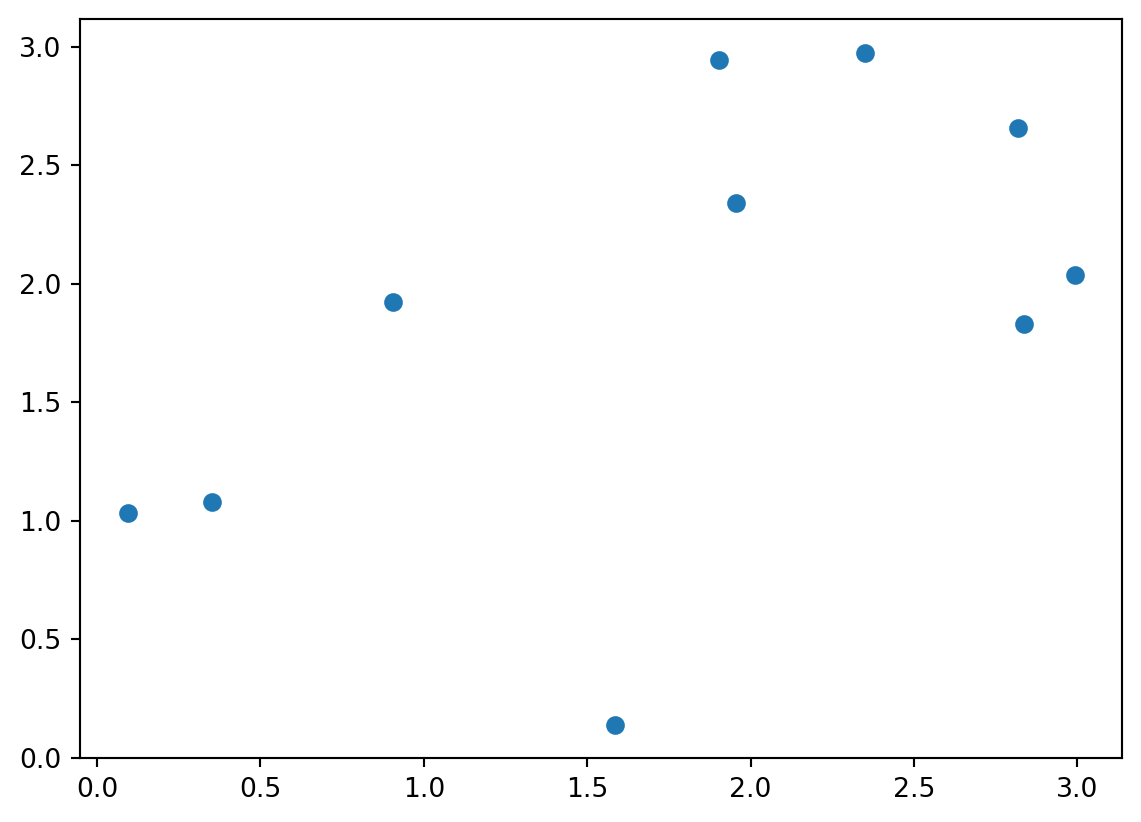
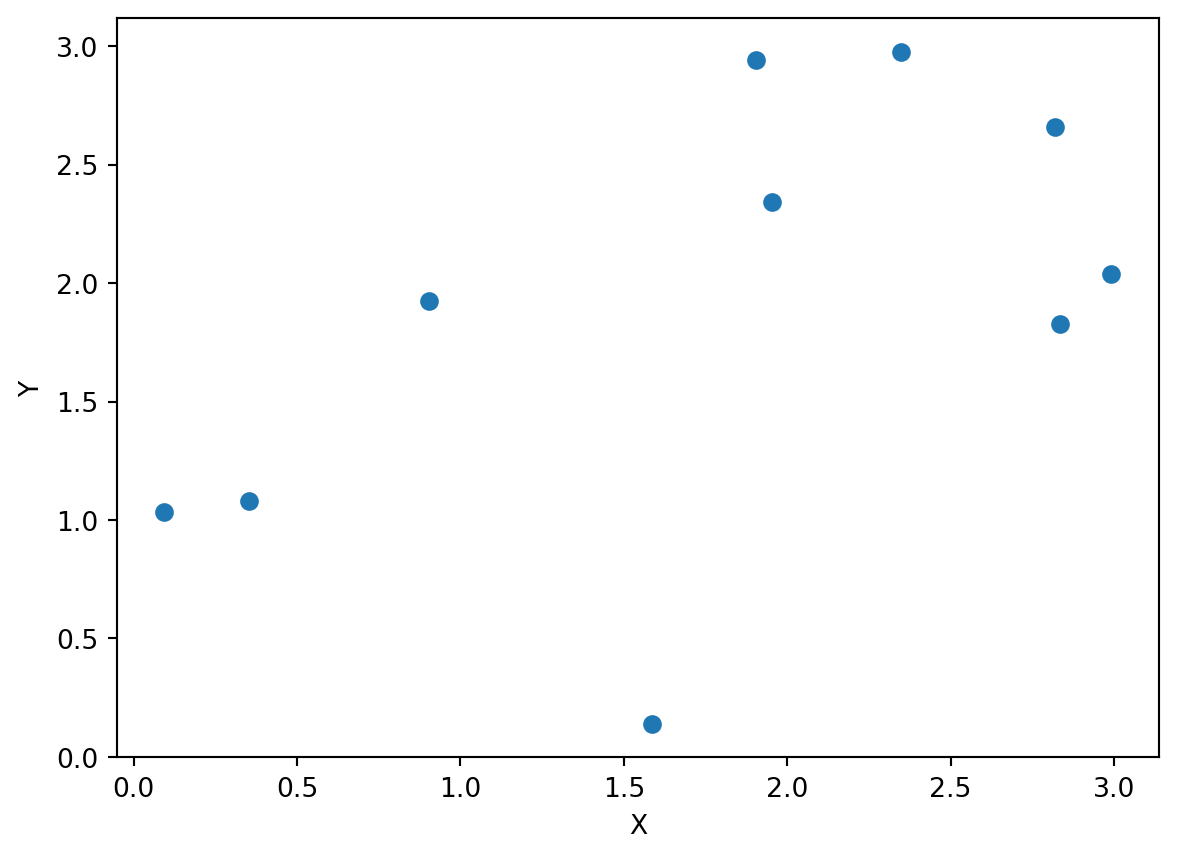
Updating render

diff --git a/_book/mysection.html b/_book/mysection.html
@@ -256,20 +256,14 @@ code span.wa { color: #60a0b0; font-weight: bold; font-style: italic; } /* Warni
 <span id="cb1-9"><a href="#cb1-9" aria-hidden="true" tabindex="-1"></a>z <span class="op">=</span> np.random.uniform(<span class="dv">0</span>,<span class="dv">3</span>,<span class="dv">10</span>)<span class="op">;</span></span>
 <span id="cb1-10"><a href="#cb1-10" aria-hidden="true" tabindex="-1"></a></span>
 <span id="cb1-11"><a href="#cb1-11" aria-hidden="true" tabindex="-1"></a>plt.scatter(x,y)</span>
-<span id="cb1-12"><a href="#cb1-12" aria-hidden="true" tabindex="-1"></a>plt.show()</span></code><button title="Copy to Clipboard" class="code-copy-button"><i class="bi"></i></button></pre></div>
+<span id="cb1-12"><a href="#cb1-12" aria-hidden="true" tabindex="-1"></a>plt.xlabel(<span class="st">'X'</span>)</span>
+<span id="cb1-13"><a href="#cb1-13" aria-hidden="true" tabindex="-1"></a>plt.ylabel(<span class="st">'Y'</span>)</span>
+<span id="cb1-14"><a href="#cb1-14" aria-hidden="true" tabindex="-1"></a>plt.show()</span></code><button title="Copy to Clipboard" class="code-copy-button"><i class="bi"></i></button></pre></div>
 <div class="cell-output cell-output-display">
-<p><img src="mysection_files/figure-html/cell-2-output-1.png" width="571" height="411"></p>
+<p><img src="mysection_files/figure-html/cell-2-output-1.png" width="589" height="429"></p>
 </div>
 </div>
-<p>Customization of plots can be done through different functions. For instance:</p>
-<div class="cell" data-execution_count="2">
-<div class="sourceCode cell-code" id="cb2"><pre class="sourceCode python code-with-copy"><code class="sourceCode python"><span id="cb2-1"><a href="#cb2-1" aria-hidden="true" tabindex="-1"></a>plt.xlabel(<span class="st">'X'</span>)</span>
-<span id="cb2-2"><a href="#cb2-2" aria-hidden="true" tabindex="-1"></a>plt.ylabel(<span class="st">'Y'</span>)</span>
-<span id="cb2-3"><a href="#cb2-3" aria-hidden="true" tabindex="-1"></a>plt.show()</span></code><button title="Copy to Clipboard" class="code-copy-button"><i class="bi"></i></button></pre></div>
-<div class="cell-output cell-output-display">
-<p><img src="mysection_files/figure-html/cell-3-output-1.png" width="599" height="434"></p>
-</div>
-</div>
+<p>We could start plotting another plot, but we have not saved our scatterplot as an object. Thus, it will get overridden by whatever we plot next. If we want to keep a plot, we can save as a subplot shown as follows.</p>
 </section>
 <section id="animation" class="level2" data-number="6.3">
 <h2 data-number="6.3" class="anchored" data-anchor-id="animation"><span class="header-section-number">6.3</span> Animation</h2>
